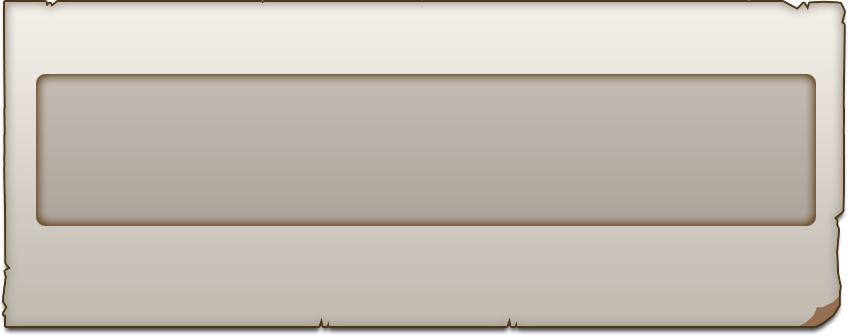
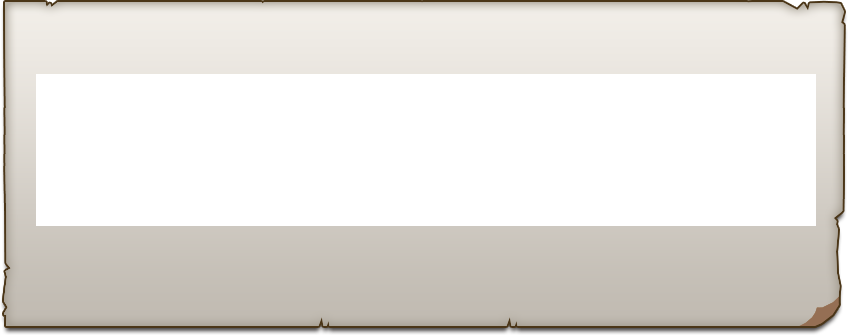
s

diff --git a/Classes/Scenes/GameScene.cpp b/Classes/Scenes/GameScene.cpp
@@ -73,6 +73,7 @@ bool GameScene::init()
         this->initControlLayer();
         this->initMapSize(_curGameData);
         this->initAnimationLayer();
+        this->initDialog();
         
         return true;
 }
@@ -378,7 +379,72 @@ void GameScene::initDialog(){
         auto game_win_back = Sprite::create("game_win_back.png");
         game_win_back->setPosition(game_win_back->getContentSize() / 2);
         _winDialogLayer->setContentSize(game_win_back->getContentSize());
-        _winDialogLayer->addChild(game_win_back);
+        _winDialogLayer->addChild(game_win_back, 1);
+        auto win_back_size = game_win_back->getContentSize();
+        
+        auto game_win_title = Sprite::create("game_win_title.png");
+        game_win_title->setPosition(Vec2(win_back_size.width / 2, win_back_size.height + game_win_title->getContentSize().height * 0.2));
+        game_win_back->addChild(game_win_title, 2);
+        
+        auto game_win_shine = Sprite::create("game_win_shine.png");
+        game_win_shine->setPosition(game_win_title->getPosition());
+        _winDialogLayer->addChild(game_win_shine);
+        auto anim_rotate = RotateBy::create(2.f, 360);
+        game_win_shine->runAction(RepeatForever::create(anim_rotate));
+        
+        auto game_win_t_back = Sprite::create("game_win_t_back.png");
+        auto game_win_t_back_pos = Vec2(0.475 *game_win_t_back->getContentSize().width ,
+                                        win_back_size.height - game_win_t_back->getContentSize().height / 2 - 10);
+        game_win_t_back->setPosition(game_win_t_back_pos);
+        game_win_back->addChild(game_win_t_back);
+        
+        auto win_title_txt = Label::createWithSystemFont("恭喜你统一了整个岛屿!!!", "Arial", 32);
+        win_title_txt->setPosition(Vec2(win_title_txt->getContentSize().width * 0.6,
+                                        game_win_t_back->getContentSize().height * 0.7));
+        game_win_t_back->addChild(win_title_txt);
+        
+        
+        auto game_win_c_back = Sprite::create("game_win_c_back.png");
+        
+        game_win_c_back->setPosition(Vec2(win_back_size.width / 2,
+                                          game_win_t_back_pos.y - game_win_c_back->getContentSize().height * 0.63f));
+        game_win_back->addChild(game_win_c_back);
+        auto game_win_c_back_size = game_win_c_back->getContentSize();
+        auto win_tips = Label::createWithSystemFont("您获得了:", "Arial", 28);
+        win_tips->setColor(Color3B::BLACK);
+        win_tips->setPosition(Vec2(win_tips->getContentSize().width * 0.55,
+                                   game_win_c_back_size.height - win_tips->getContentSize().height * 0.6));
+        game_win_c_back->addChild(win_tips);
+        this->addChild(_winDialogLayer, ZORDER_DICE_LAYER, key_dialog_layer_tag);
+        
+        auto replay_btn = cocos2d::ui::Button::create("DIALOG_OK.png", "DIALOG_OK_SEL.png");
+        
+        auto game_win_c_back_pos = game_win_c_back->getPosition();
+        replay_btn->setPosition(Vec2(win_back_size.width / 2,
+                                     replay_btn->getContentSize().height *1.5f));
+        replay_btn->setScale(2.f);
+        auto btn_pos = replay_btn->getPosition();
+        auto btn_size = replay_btn->getContentSize();
+        replay_btn->setTitleText("重玩");
+        replay_btn->setTitleFontName("Arial");
+        replay_btn->setTitleFontSize(40);
+        game_win_back->addChild(replay_btn);
+        
+        auto share_btn = (ui::Button*)replay_btn->clone();
+        share_btn->setPosition(Vec2(btn_pos.x - 2.5f * btn_size.width, btn_pos.y));
+        game_win_back->addChild(share_btn);
+        share_btn->setTitleText("分享");
+        share_btn->setTitleFontName("Arial");
+        share_btn->setTitleFontSize(40);
+
+        
+        
+        auto return_btn = (ui::Button*)replay_btn->clone();
+        return_btn->setPosition(Vec2(btn_pos.x + 2.5f * btn_size.width, btn_pos.y));
+        game_win_back->addChild(return_btn);
+        return_btn->setTitleText("返回");
+        return_btn->setTitleFontName("Arial");
+        return_btn->setTitleFontSize(40);
 }
 
 #pragma mark - touch and menu event
